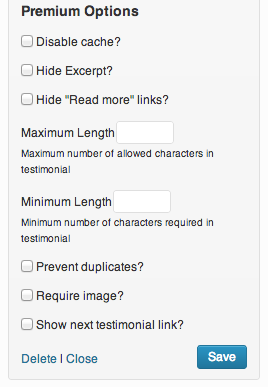
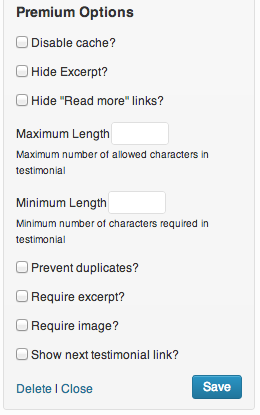
Release 2.7.10
* BUGFIX extra excerpt in single view
* Screenshot 11 updated
* Update premium features

git-svn-id: https://plugins.svn.wordpress.org/testimonials-widget/trunk@662007 b8457f37-d9ea-0310-8a92-e5e31aec5664

diff --git a/testimonials-widget.php b/testimonials-widget.php
@@ -3,7 +3,7 @@
 	Plugin Name: Testimonials Widget
 	Plugin URI: http://wordpress.org/extend/plugins/testimonials-widget/
 	Description: Testimonials Widget plugin allows you to display random or rotating portfolio, quotes, reviews, showcases, or text with images on your WordPress blog.
-	Version: 2.7.9
+	Version: 2.7.10
 	Author: Michael Cannon
 	Author URI: http://aihr.us/about-aihrus/michael-cannon-resume/
 	License: GPLv2 or later
@@ -146,8 +146,9 @@ class Testimonials_Widget {
 			return $content;
 
 		$atts					= self::get_defaults( true );
-		$atts['ids']			= $post->ID;
 		$atts['hide_content']	= 'true';
+		$atts['ids']			= $post->ID;
+		$atts['type']			= 'get_single';
 
 		$testimonials			= self::get_testimonials( $atts );
 		$testimonial			= $testimonials[0];
